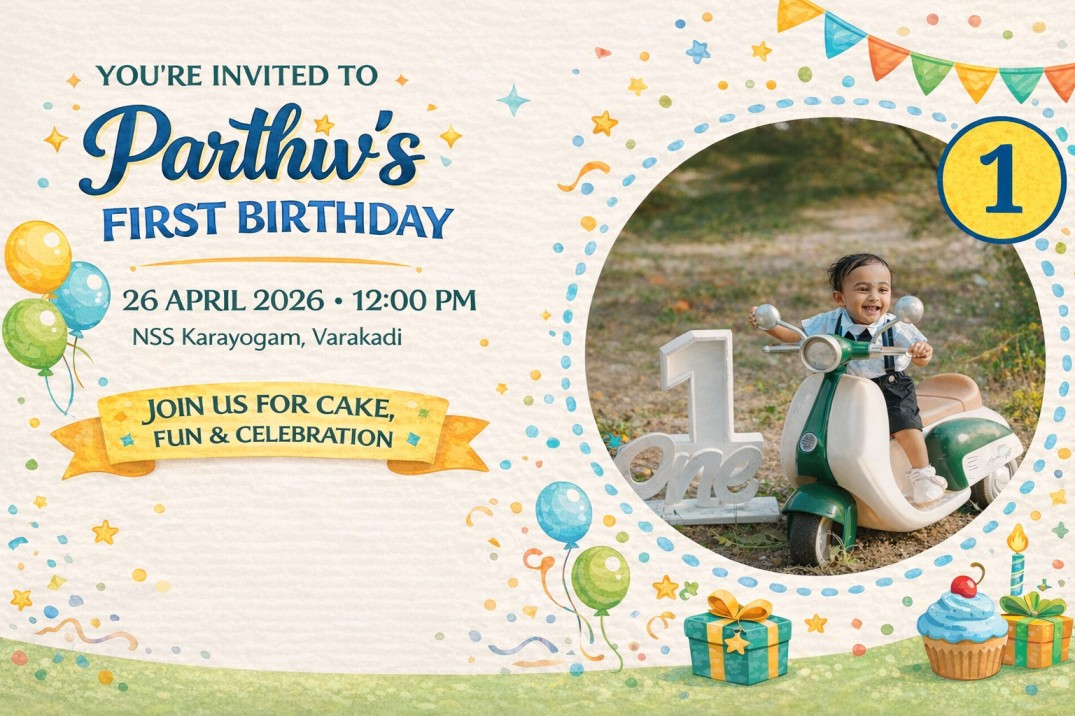
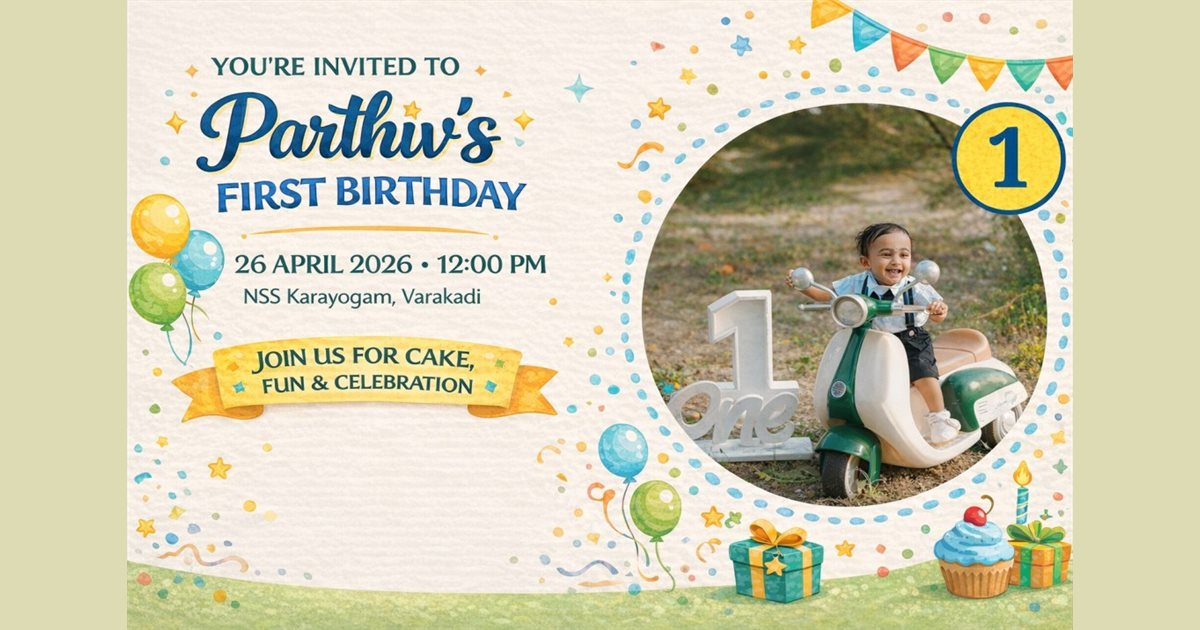
Optimize share-card dimensions and meta copy
- Resize share-card.jpg from 1075x716 to 1200x630 (OG standard,
  letterboxed to sampled background color, 134 KB JPEG)
- Lengthen og:title to 56 chars (was 40) — includes day + time
- Lengthen og:description / twitter:description to 130 chars
  (was 89) — adds full venue, date, and lunch detail

diff --git a/index.html b/index.html
@@ -8,8 +8,8 @@
 <!-- WhatsApp / social meta — absolute URLs required by crawlers -->
 <meta property="og:type" content="website" />
 <meta property="og:url" content="https://parthiv-birthday-invitation.netlify.app/" />
-<meta property="og:title" content="Parthiv's First Birthday — 26 April 2026" />
-<meta property="og:description" content="Join us to celebrate Parthiv turning ONE! Cake cutting at 12 PM, NSS Karayogam, Varakadi." />
+<meta property="og:title" content="Parthiv's First Birthday — Sunday, 26 April 2026 · 12 PM" />
+<meta property="og:description" content="Join us as Parthiv turns ONE! Cake cutting at 12:00 PM on Sunday, 26 April 2026, at NSS Karayogam, Varakadi. Lunch will be served." />
 <meta property="og:image" content="https://parthiv-birthday-invitation.netlify.app/assets/share-card.jpg" />
 <meta property="og:image:secure_url" content="https://parthiv-birthday-invitation.netlify.app/assets/share-card.jpg" />
 <meta property="og:image:type" content="image/jpeg" />
@@ -17,8 +17,8 @@
 <meta property="og:image:height" content="630" />
 <meta property="og:image:alt" content="Parthiv's First Birthday invitation — 26 April 2026" />
 <meta name="twitter:card" content="summary_large_image" />
-<meta name="twitter:title" content="Parthiv's First Birthday — 26 April 2026" />
-<meta name="twitter:description" content="Cake cutting at 12 PM, NSS Karayogam, Varakadi." />
+<meta name="twitter:title" content="Parthiv's First Birthday — Sunday, 26 April 2026 · 12 PM" />
+<meta name="twitter:description" content="Join us as Parthiv turns ONE! Cake cutting at 12:00 PM on Sunday, 26 April 2026, at NSS Karayogam, Varakadi. Lunch will be served." />
 <meta name="twitter:image" content="https://parthiv-birthday-invitation.netlify.app/assets/share-card.jpg" />
 <meta name="theme-color" content="#0369A1" />
 
